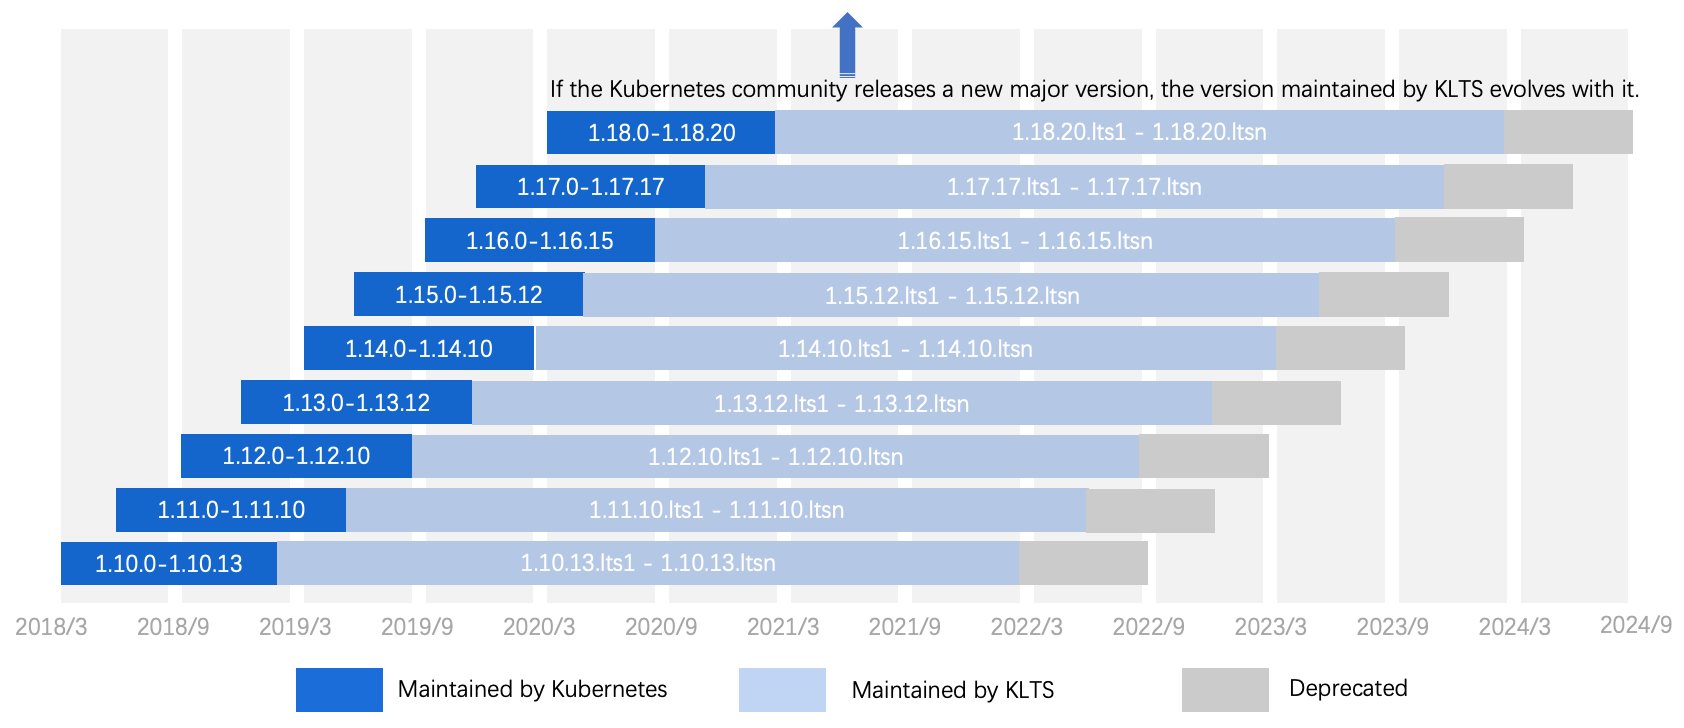
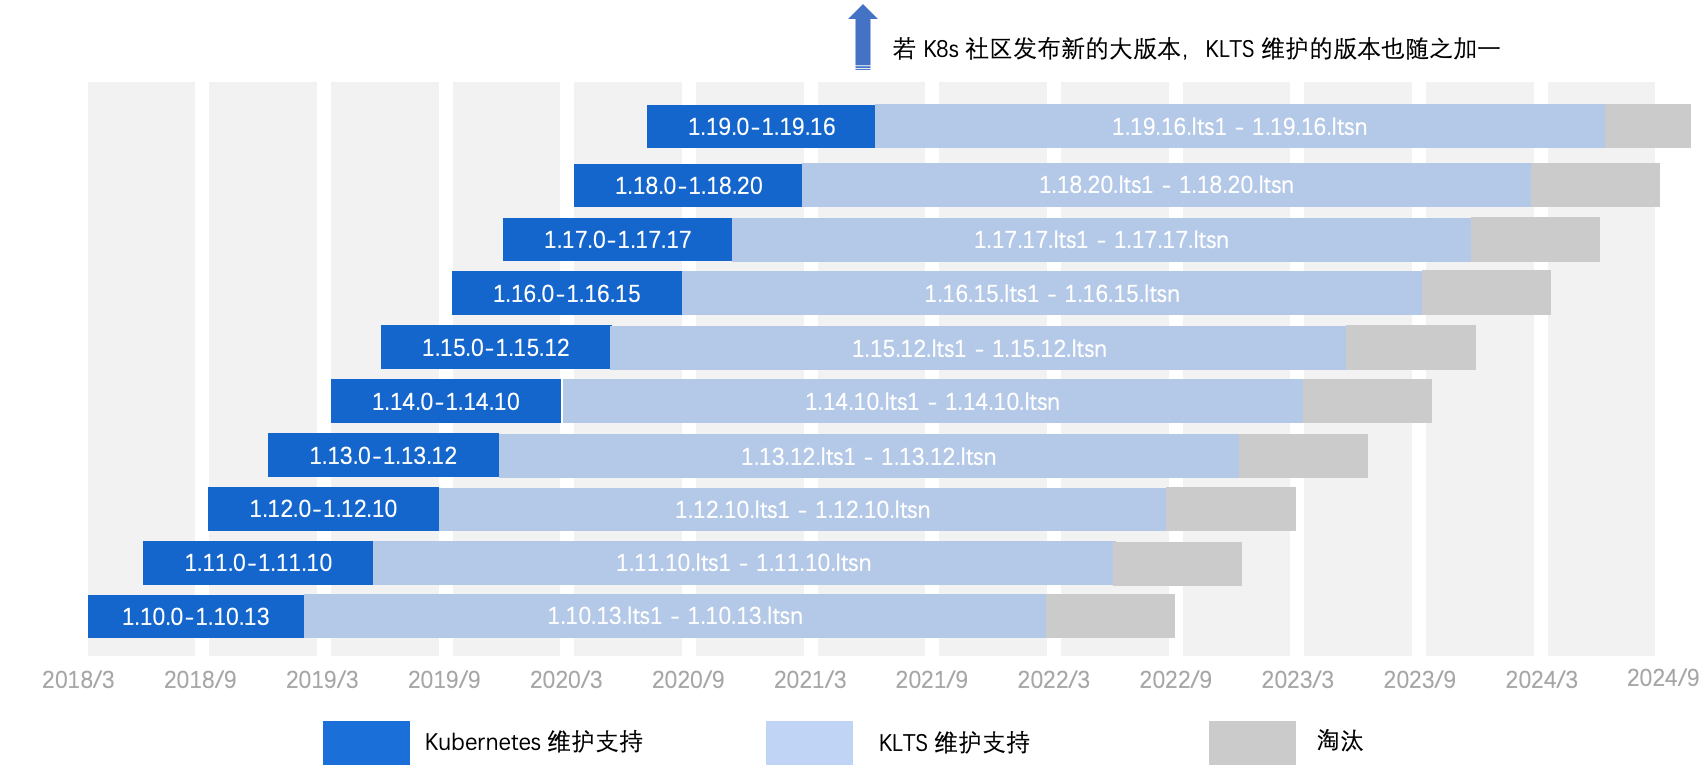
new translations

Changed region(s): [[0.0, 0.0, 1.0, 0.9973], [0.8029, 0.8462, 0.9264, 0.9066], [0.9572, 0.8462, 1.0, 0.9066]]

diff --git a/content/en/docs/Intro.md b/content/en/docs/Intro.md
@@ -2,37 +2,44 @@
 title: "Overview"
 weight: 10
 ---
-KLTS, known as Kubernetes Long Term Support, has a primary mission to provide free long-term maintenance support for earlier versions of Kubernetes.  
+KLTS, known as Kubernetes Long Term Support, has a primary mission to provide free long-term maintenance support for early versions of Kubernetes.  
 
-Kubernetes versions are expressed as **x.y.z**, where **x** is the major version, **y** is the minor version, and **z** is the patch version. For the versions maintained by KLTS, it is followed by a string beginning with **lts**.  
+One of the reasons to maintain early versions is the fact that in a real production environment, the latest release is not the best or the most stable. In a normal case, a stable release of Kubernetes is not available until one year after the initial release of a particular version. For details see [Kubernetes release cycle](#release-cycle). After the community aborts maintenance, KLTS will continue to maintain it in the next three years.  
 
-One of the reasons to maintain earlier versions is the fact that in a real production environment, the latest release is not the best or the most stable. In a normal case, As shown in the table below, a stable release of Kubernetes is not available until one year after the initial release of a particular version. For details see [Kubernetes release cycle](#release-cycle).
+Why is the choice of most enterprises today to stay with early versions and not rush to upgrade?  
 
-As shown below, 1.10 - 1.18 are the versions being maintained by KLTS, while 1.19 - 1.22 are the versions currently being maintained by the Kubernetes community, as described in the [Version Skew Policy](https://kubernetes.io/releases/version-skew-policy/#supported-versions)。
+- Firstly, the high frequency of upgrades may cause more risks and each upgrade must be fully verified. In the financial industry, the change cycle of a PaaS platform is usually relatively long, because once the updated version has a bug, it needs to be forced to roll back or quickly respond and upgrade to a updated version, which will cause unnecessary expenditures.  
 
-<img src="../klts_job.png" width="750">
+- Secondly, once an enterprise upgrades their the Kubernetes kernel, some functional alternatives may not yet fully ready for production, and incompatibility often occurs in the production environment.  
 
-Take 1.19 as an example, its stable release is expected to be available on October 28, 2021, but the stable release of 1.19 is not fully compatible with many features of 1.10 to 1.18, and there are countless iterations of development in between. If an enterprise rashly upgrades its kernel to 1.19, it is likely to cause production accidents. Other new versions such as 1.20 - 1.22 have similar problems.  
+- Finally, the Kubernetes community only supports minor version upgrades one by one, and does not support cross-version upgrades, because the later upgrades often have some uncontrollable factors that may cause some production problems.  
 
-The choice of most enterprises today is to stay with earlier versions and not rush to upgrade. But the Kubernetes community only maintains the most recent four releases, how can you keep earlier versions safe from the CVE bugs and vulnerabilities that the community may discover from time to time? That's where KLTS comes in! We provide free maintenance support for earlier versions for up to three years.    
+Therefore, the choice of most enterprises today is to stay with early versions and not rush to upgrade. But the Kubernetes community only maintains the most recent three to four releases, how can you keep early versions safe from the CVE bugs and vulnerabilities that the community may discover from time to time? That’s where KLTS comes in! We provide free maintenance support for early versions for up to three years, actively fix the CVE vulnerabilities and critical bugs.  
 ## KLTS release cycle {#maint-cycle}
-KLTS currently maintains nine stable releases: 1.10.13, 1.11.10, 1.12.10. 1.13.12, 1.14.10, 1.15.12, 1.16.15, 1.17.17, 1.18.20.
+Kubernetes versions are expressed as x.y.z, where x is the major version, y is the minor version, and z is the patch version. For the versions maintained by KLTS, it is followed by a string beginning with lts. For the convenience of communication, people often use the first two digits x.y to describe the Kubernetes version.  
 
-If the Kubernetes community finds new CVE vulnerabilities or bugs, the KLTS team will take over those releases that the community has abandoned for maintenance and keep them in a continuous maintenance state. The current maintenance cycle for these nine releases is as follows.
 
-![maintained by KLTS](../whatKLTSdoes.png)
+Assuming that the latest Kubernetes released by the community is x.y, according to the [Version Skew Policy](https://kubernetes.io/releases/version-skew-policy/#supported-versions), the community only maintains the latest three versions, and KLTS currently maintains nearly ten early versions starting from 1.10, as shown in the figure below.  
 
-As shown above, the Kubernetes community typically has a maintenance cycle of about one year for a minor version, while KLTS can provide long-term maintenance for the next three years until the code becomes obviously incompatible and the version will be phased out.
-## Bug fix {#bug-fix}
+<img src="../klts_job.png" width="750">  
+
+When the Kubernetes community discovers new CVE vulnerabilities or bugs that may affect production, it may be affected not only the versions that the community is maintaining, but also the early versions that have been discontinued before but are still in use by some enterprises and cannot be upgraded rashly, which are maintained by the KLTS team. The current maintenance cycle of KLTS is as follows:  
+
+![versions maintained by KLTS](../whatKLTSdoes.png)
+
+As shown above, the maintenance cycle of a certain version by the Kubernetes community is usually about one year, and KLTS can provide a long-term maintenance in the next three years until the code is incompatible, and then the corresponding version will be aborted.  
+## Bugs fixed by KLTS {#bug-fix}
+Some high-priority CVEs or serious bugs in the production environment may cause greater security risks. CVE security issues are the lifeblood of the cluster, so KLTS will fix mid-to-high-risk CVEs, and then fix major bugs to guarantee stable operation of the production environment.  
+
 As an example, the [CVE-2021-3121](https://www.cvedetails.com/cve/CVE-2021-3121) vulnerability discovered in January 2021 has a CVSS score of 7.5. However, as of September 2021 the Kubernetes community:  
 
 - Only fixed four versions: 1.18, 1.19, 1.20, 1.21
 - Announced that “all prior versions remain exposed and users should stop using them immediately”
-- [Requests to fix earlier versions](https://github.com/kubernetes/kubernetes/issues/101435) are denied:
+- Requests to [fix early versions](https://github.com/kubernetes/kubernetes/issues/101435) are denied:
 
 ![CVE-2021-3121](../cve2021.png)
 
- KLTS addresses this situation by diligently fixing eight earlier versions that were heavily affected by the [CVE-2021-3121](https://www.cvedetails.com/cve/CVE-2021-3121) vulnerability. No complaints, no demands!
+KLTS addresses this situation by diligently fixing eight earlier versions that were heavily affected by the [CVE-2021-3121](https://www.cvedetails.com/cve/CVE-2021-3121) vulnerability. No complaints, no demands!
 
 - v1.17.17
 - v1.16.15
@@ -41,12 +48,27 @@ As an example, the [CVE-2021-3121](https://www.cvedetails.com/cve/CVE-2021-3121)
 - v1.13.12
 - v1.12.10
 - v1.11.10
-- v1.10.13  
+- v1.10.13
 
- If you feel that the KLTS team's efforts are valuable and interesting to you, don’t hesitate to join the [KLTS community](https://github.com/klts-io) to talk and contribute.
+If you feel that the KLTS team’s efforts are valuable and interesting to you, don’t hesitate to join the [KLTS community](https://github.com/klts-io) to talk and contribute.
+## Welcome to talk and join {#klts-benefits}
+After careful maintenance and diligent support by developers, KLTS brings the following results to these early versions:
+
+- **Three-year maintenance period**: KLTS will provide continuous maintenance for up to three years once the Kubernetes community aborts maintenance.
+- **Safe and stable**: Minor version upgrades are safer with high compatibility. This kind of progressive upgrade is more stable. For example, the new features provided by the latest version may be very attractive, but it may not be able to meet the standards available for production and require a long time to adapt.
+- **Easy to install**: Combined with domestic image acceleration, it natively supports Kubeadm, and CentOS, Ubuntu, and openSUSE, and also provides a one-click installation script.
+- **Open and transparent**: KLTS is an open source project hosted on GitHub and the whole process is open.
+- **more in roadmap**: Long-term maintenance of Containerd and other components will be added later.
+
+Here is a sincere invitation to developers. If you feel that the KLTS team’s contributions are valuable and make you trustworthy, you are welcome to join the KLTS community to talk and contribute. We look forward to any comments, suggestions, or solutions.
+
+- [KLTS community](https://github.com/klts-io)
+- [KLTS Slack channel](https://klts.slack.com/archives/C02H8DMB6SZ)
+
 ## Kubernetes release cycle {#release-cycle}
+The release cycle of recent ten versions by the Kubernetes community are as follows:
 
-| **Ver.** | **Initial release date** | **Stable release date** |
+| **Ver.** | **Initial release** | **Stable release** |
 | :----------- | :--------------- | :------------------- |
 | 1.10         | 2018-03-27       | 2019-02-13           |
 | 1.11         | 2018-07-28       | 2019-05-01           |
@@ -62,6 +84,6 @@ As an example, the [CVE-2021-3121](https://www.cvedetails.com/cve/CVE-2021-3121)
 | 1.21         | 2021-04-08       | 2022-06-28           |
 | 1.22         | 2021-08-04       | 2022-10-28           |
 
-An initial release refers to the first official release of a minor version such as 1.10.0, 1.11.0 ... 1.22.0, etc.  
+An initial release refers to the first official release of a minor version such as 1.10.0, 1.11.0 … 1.22.0, etc.  
 
-A stable release is usually the final bug-fix release about one year after the initial release. It refers to the release of End Of Life (EOL), i.e., the community will not maintain this version from then on.  
+A stable release is usually the final bug-fix release about one year after the initial release. It refers to the release of End Of Life (EOL), i.e., the community will not maintain this version from then on.

diff --git a/content/en/blog/2021-11-17-first-release/index.md b/content/en/blog/2021-11-17-first-release/index.md
@@ -1,0 +1,46 @@
+---
+layout: blog
+title: "Official release of KLTS"
+date: 2021-11-17
+---
+
+We are happy to announce that the KLTS project is officially launched. KLTS is suitable for enterprise users and can be directly used in a production environment. After the Kubernetes community stops maintaining a certain version, KLTS will continue to provide maintenance for two to three years, mainly including patching CVE vulnerabilities and fixing serious bugs.
+
+KLTS team took more than 2 months from proposing ideas, organizing code, building acceleration channels and websites, and finally launching it online. Our purpose is to share and communicate, sharing makes people happy, and communication makes progress.
+
+Why do we need the KLTS project? The reason is that the official Kubernetes community only maintains the latest 3 - 4 versions, but those earlier versions are still used in many actual production environments. If you rashly upgrade to a new version, it is easy to cause production failures.
+
+We have encountered such a case.
+## Upgrade issues
+In July 2021, a bank customer directly upgraded Kubernetes 1.11 to 1.18. When the customer performed a stress test in the upgraded business system, a serious failure occurred in the production environment.
+
+The bank’s management and our company’s leaders both showed great considerations to this matter, and immediately organized experts to work overtime and try to reproduce the failure situation again. The two large inter-provincial production clusters were investigated node by node. After repeated attempts, they finally found the right direction and succeeded. They successfully located the critical point at which the failure occurs.
+
+After several tests, it was finally determined that the migration of the Master node from old to new cluster nodes caused a large-scale failure of the new cluster network. Some features supported by the old Master were not well supported after the upgrade.
+
+Afterwards, a bank executive reported: “The reason for upgrading the old system is because of a security vulnerability in Kubernetes 1.11, but we never expected such a large-scale failure after the upgrade.”
+
+## Internal discussion
+The occurrence of such failures often affects the actual production and triggers a series of serious consequences. So after this incident, we conducted detailed internal discussions and realized that earlier versions of Kubernetes running in the production environment cannot be rushed to upgrade to the new version, which can easily cause various unforeseen problems and customers may also be in a dilemma.
+
+In order to improve customer satisfaction, we have continued to maintain those earlier versions of Kubernetes from 1.10 over the past two years to solve different failures. Often a colleague received an after-sales service call late at night, immediately started remote investigation after quickly cleaning his face with cold water, and outside was almost bright when he solved the problem and looked out of the window again.
+
+After fighting day and night for more than two years, we fixed many bugs and solved countless failures. After this bank incident, our team realized that these maintained versions of Kubernetes are digital assets that many enterprises cannot ask for.
+
+”The team put forward a big suggestion: "Can these versions be shared with the open source community and benefit more users? Not just limited to our company's customers, it can also contribute some to the community development."
+
+Just as the Kubernetes Community Day (KCD) conference was held globally, this proposal received positive responses from our team members.
+
+## Build
+Do whatever it takes. The first step is to pick up the patches that have been fixed over the years from our code repository. Then rely on Github's CI, resume testing, build software sources (YUM/DEB), images, and websites, and write documents.
+
+All these releases have been fully tested in CentOS7.
+
+## Official release
+In November 2021, it is the golden autumn season. Once everything is ready, [KLTS](https://klts.io/zh/) is officially released. We hope that the experience accumulated by our colleagues over the past few years can bring you some help and you can avoid detours.
+
+Since 1.10, all kernels have been verified by financial, government, and enterprise production environment. You can download it with confidence and directly put it into the production environment after being simple tested and verified.
+
+If you have any comments or questions, feel free to reach out to us in the following ways:
+  * [Slack](https://klts.slack.com/archives/C02H8DMB6SZ)
+  * [KLTS community](https://github.com/klts-io)

diff --git a/content/en/docs/install-with-script.md b/content/en/docs/install-with-script.md
@@ -1,5 +1,5 @@
 ---
-title: "Install with script"
+title: "Install with Script"
 weight: 30
 ---
 

diff --git a/content/en/docs/install.md b/content/en/docs/install.md
@@ -1,5 +1,5 @@
 ---
-title: Install
+title: Step-By-Step Install
 weight: 30
 ---
 
